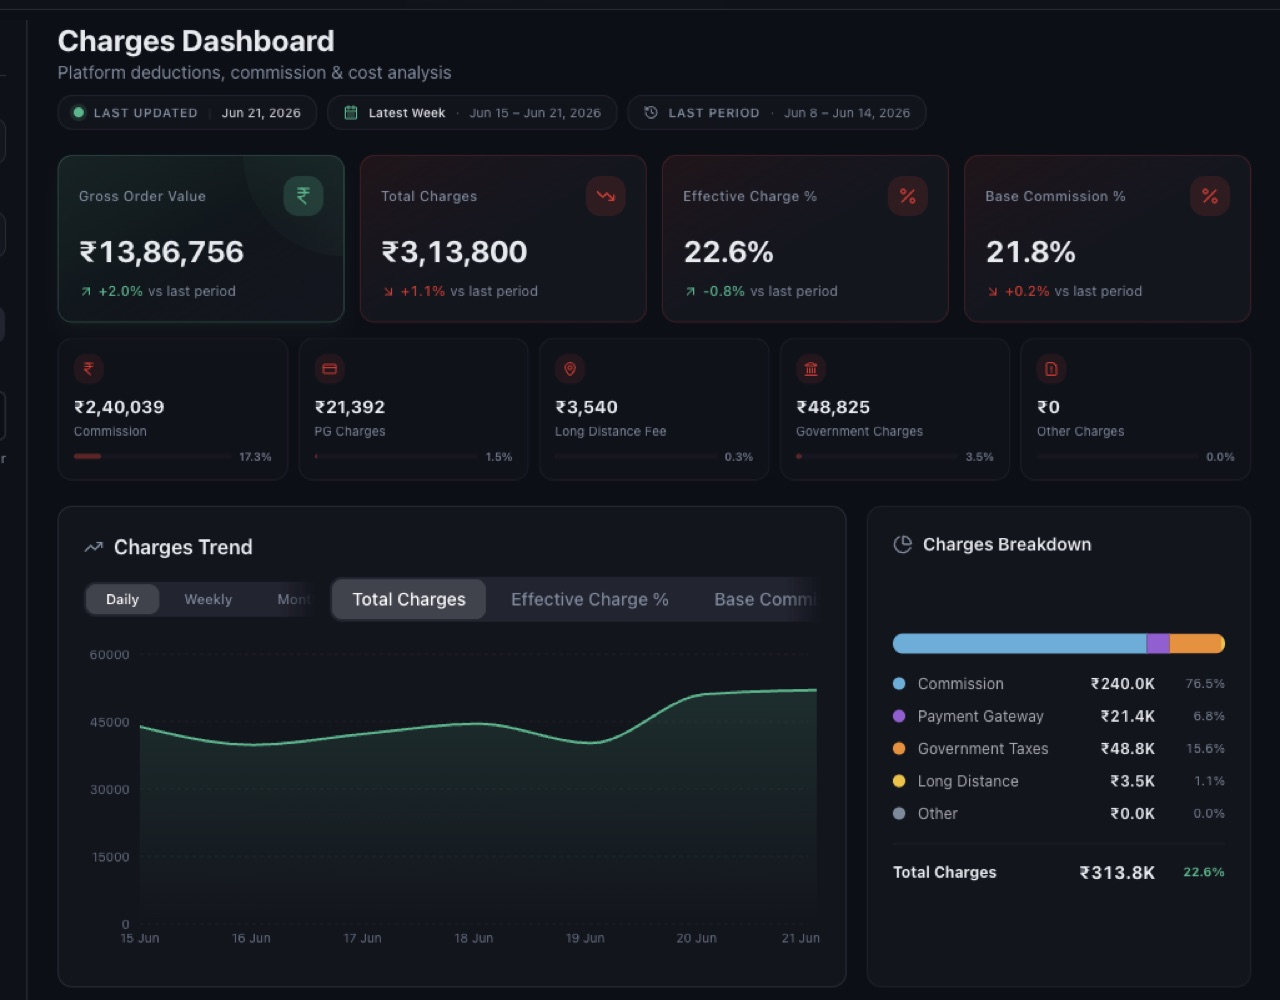
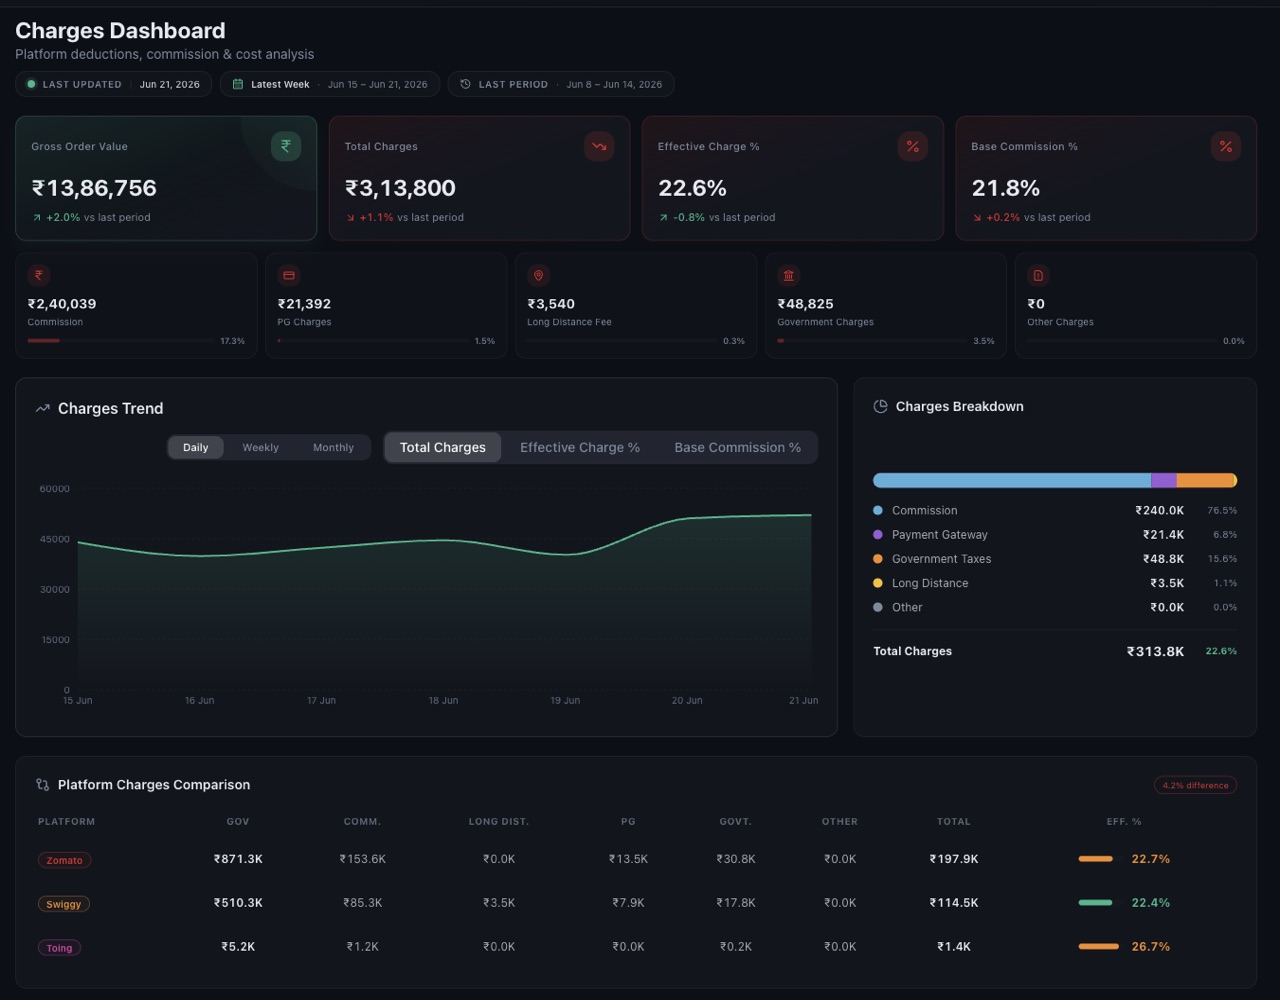
Retake charges screenshot: proper title margin, no sidebar bleed, complete cards

diff --git a/src/pages/Mynt.jsx b/src/pages/Mynt.jsx
@@ -416,7 +416,7 @@ function DashboardShowcase() {
             {DASHBOARDS.map((x, i) => (
               <img
                 key={x.key}
-                src={`/shots/${x.shot}.jpg?v=3`}
+                src={`/shots/${x.shot}.jpg?v=4`}
                 alt={`${x.label} dashboard`}
                 className="dsh-shot absolute inset-2 h-[calc(100%-1rem)] w-[calc(100%-1rem)] rounded-xl object-contain"
                 style={i > 0 ? { clipPath: 'inset(100% 0 0 0)' } : undefined}
@@ -478,7 +478,7 @@ function DashboardShowcase() {
               transition={{ duration: 0.25 }}
             >
               <img
-                src={`/shots/${d.shot}.jpg?v=3`}
+                src={`/shots/${d.shot}.jpg?v=4`}
                 alt={`${d.label} dashboard`}
                 className="rounded-xl border border-line"
               />
